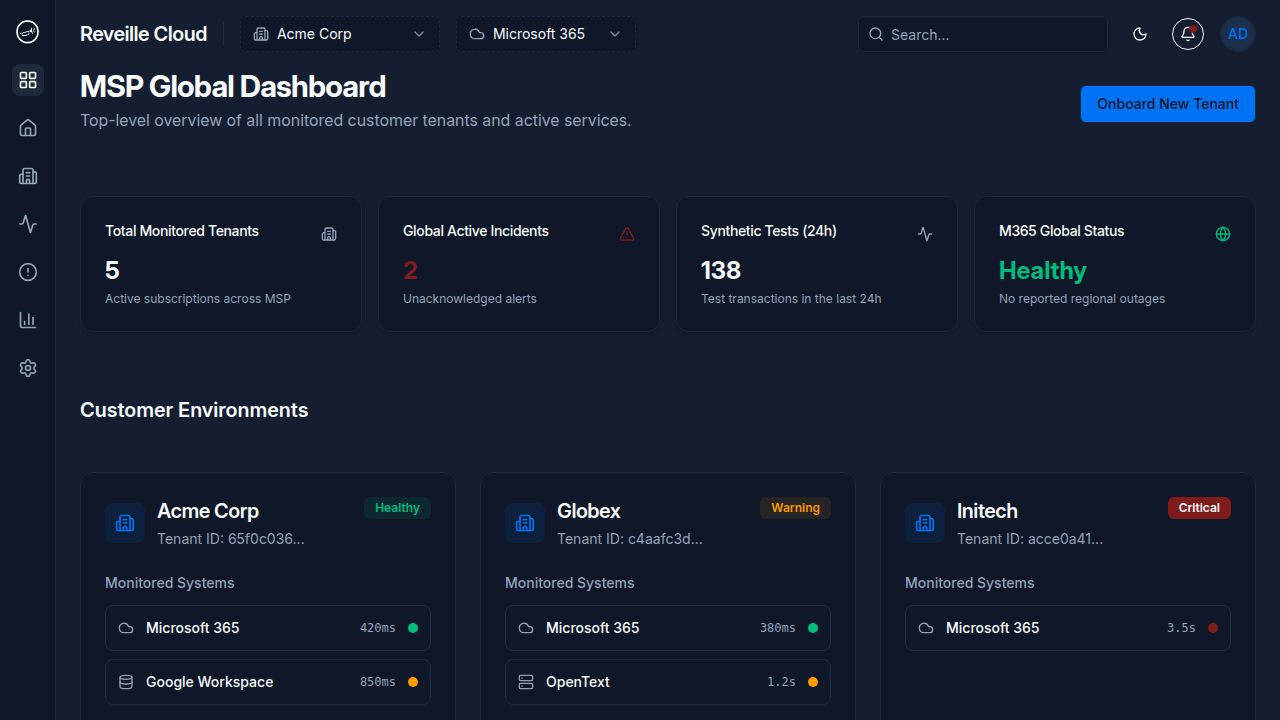
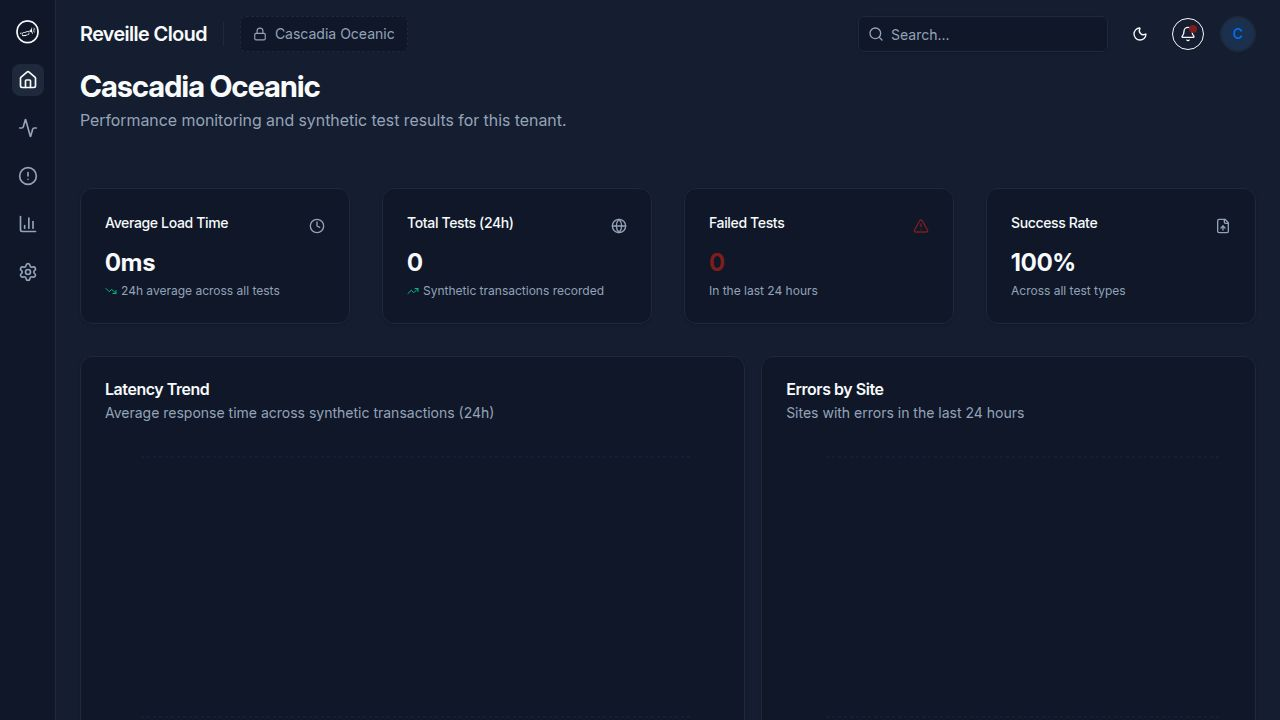
Remove manual organization selection from the header
Update client-side components and context to remove the organization selector, relying on backend logic for organization determination.

Replit-Commit-Author: Agent
Replit-Commit-Session-Id: d369ee71-4fa6-4553-b1ac-325e3540190d
Replit-Commit-Checkpoint-Type: full_checkpoint
Replit-Commit-Event-Id: a16159c5-2845-4056-a363-a3fece7ea271
Replit-Commit-Screenshot-Url: https://storage.googleapis.com/screenshot-production-us-central1/a0f16eec-578b-48d3-9621-63b44943948e/d369ee71-4fa6-4553-b1ac-325e3540190d/3OSDVrW
Replit-Helium-Checkpoint-Created: true

diff --git a/client/src/components/layout/Header.tsx b/client/src/components/layout/Header.tsx
@@ -29,7 +29,7 @@ import { useActiveTenant } from "@/lib/tenant-context";
 
 export function Header() {
   const [location] = useLocation();
-  const { activeTenantId, setActiveTenantId, organization, allOrganizations, orgTenants, isMsp, activeOrgId, setActiveOrgId } = useActiveTenant();
+  const { activeTenantId, setActiveTenantId, organization, orgTenants, isMsp } = useActiveTenant();
 
   const mspOnlyItems = isMsp ? [
     { href: "/environments", icon: LayoutGrid, label: "Environments" },
@@ -85,27 +85,6 @@ export function Header() {
         <h1 className="text-xl font-semibold tracking-tight hidden sm:block whitespace-nowrap shrink-0">Reveille Cloud</h1>
         
         <div className="h-6 w-px bg-border hidden sm:block shrink-0" />
-
-        {allOrganizations.length > 1 && (
-          <Select value={activeOrgId || organization?.id || ""} onValueChange={(v) => setActiveOrgId(v)}>
-            <SelectTrigger className="w-[140px] sm:w-[180px] h-9 bg-background border-dashed shrink-0" data-testid="select-header-org">
-              <div className="flex items-center gap-2 text-sm truncate">
-                <Building2 className="h-4 w-4 text-muted-foreground shrink-0" />
-                <span className="truncate"><SelectValue placeholder="Select org" /></span>
-              </div>
-            </SelectTrigger>
-            <SelectContent>
-              {allOrganizations.map(o => (
-                <SelectItem key={o.id} value={o.id}>
-                  <div className="flex items-center gap-2">
-                    <span>{o.name}</span>
-                    <span className="text-xs text-muted-foreground">({o.mode})</span>
-                  </div>
-                </SelectItem>
-              ))}
-            </SelectContent>
-          </Select>
-        )}
 
         {isMsp ? (
           <Select value={activeTenantId || ""} onValueChange={(v) => setActiveTenantId(v)}>

diff --git a/client/src/lib/tenant-context.tsx b/client/src/lib/tenant-context.tsx
@@ -5,10 +5,7 @@ import type { Organization, Tenant } from "@shared/schema";
 interface TenantContextValue {
   activeTenantId: string | null;
   setActiveTenantId: (id: string | null) => void;
-  activeOrgId: string | null;
-  setActiveOrgId: (id: string | null) => void;
   organization: Organization | null;
-  allOrganizations: Organization[];
   orgTenants: Tenant[];
   isMsp: boolean;
   isLoading: boolean;
@@ -17,24 +14,19 @@ interface TenantContextValue {
 const TenantContext = createContext<TenantContextValue>({
   activeTenantId: null,
   setActiveTenantId: () => {},
-  activeOrgId: null,
-  setActiveOrgId: () => {},
   organization: null,
-  allOrganizations: [],
   orgTenants: [],
   isMsp: false,
   isLoading: true,
 });
 
 export function TenantProvider({ children }: { children: ReactNode }) {
-  const [activeOrgId, setActiveOrgId] = useState<string | null>(null);
-  const { data: orgCtx, isLoading } = useOrgContext(activeOrgId);
+  const { data: orgCtx, isLoading } = useOrgContext();
   const [activeTenantId, setActiveTenantId] = useState<string | null>(null);
 
   const isMsp = orgCtx?.isMsp ?? false;
   const orgTenants = orgCtx?.tenants ?? [];
   const organization = orgCtx?.organization ?? null;
-  const allOrganizations = orgCtx?.allOrganizations ?? [];
 
   useEffect(() => {
     if (orgTenants.length > 0) {
@@ -54,10 +46,7 @@ export function TenantProvider({ children }: { children: ReactNode }) {
     <TenantContext.Provider value={{
       activeTenantId,
       setActiveTenantId: isMsp ? setActiveTenantId : handleSetTenant,
-      activeOrgId,
-      setActiveOrgId,
       organization,
-      allOrganizations,
       orgTenants,
       isMsp,
       isLoading,

diff --git a/client/src/lib/api.ts b/client/src/lib/api.ts
@@ -32,9 +32,8 @@ export interface OrgContext {
   allOrganizations: Organization[];
 }
 
-export function useOrgContext(orgId?: string | null) {
-  const url = orgId ? `/api/organizations/active?orgId=${orgId}` : "/api/organizations/active";
-  return useQuery<OrgContext>({ queryKey: ["/api/organizations/active", orgId], queryFn: () => fetchJson(url) });
+export function useOrgContext() {
+  return useQuery<OrgContext>({ queryKey: ["/api/organizations/active"], queryFn: () => fetchJson("/api/organizations/active") });
 }
 
 export function useTenants() {
